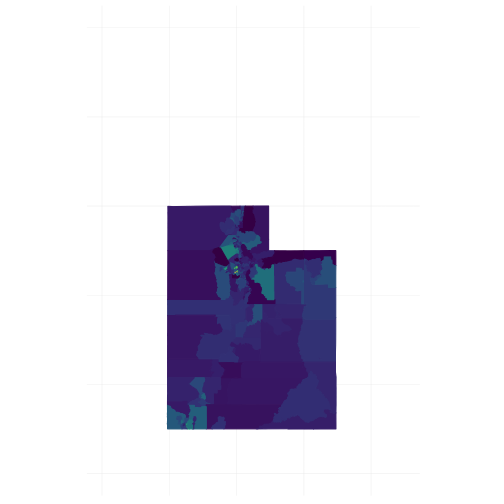
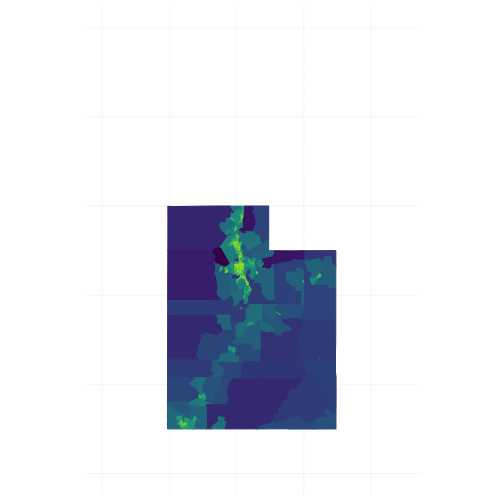
Forgot to keep Google fonts

Changed region(s): [[0.3274, 0.3869, 0.6845, 0.8631]]

diff --git a/R/make_hex.md b/R/make_hex.md
@@ -1,70 +1,64 @@
----
-title: "Make a hex sticker for the SLC RUG!"
-output: github_document
----
-
-
+Make a hex sticker for the SLC RUG\!
+================
 
 ## Get some population data for Utah
 
-
-```r
+``` r
 library(tidyverse)
 library(tidycensus)
-
+library(sf)
 
 options(tigris_use_cache = TRUE)
 
-utah <- get_acs(state = "UT", 
-                geography = "tract", 
-                variables = "B01003_001",  
-                geometry = TRUE)
+utah_raw <- get_acs(state = "UT", 
+                    geography = "tract", 
+                    variables = "B01003_001",  
+                    geometry = TRUE)
 ```
 
-```
-## Getting data from the 2012-2016 5-year ACS
-```
+    ## Getting data from the 2012-2016 5-year ACS
 
-```
-## Using FIPS code '49' for state 'UT'
-```
+    ## Using FIPS code '49' for state 'UT'
 
-```r
+``` r
+area <- utah_raw %>% 
+    select(geometry) %>% 
+    st_area() %>%
+    as.numeric()
+
+utah <- bind_cols(utah_raw, data_frame(area = area))
+
 head(utah)
 ```
 
-```
-## Simple feature collection with 6 features and 5 fields
-## geometry type:  POLYGON
-## dimension:      XY
-## bbox:           xmin: -114.0505 ymin: 38.14742 xmax: -111.9994 ymax: 42.00122
-## epsg (SRID):    4269
-## proj4string:    +proj=longlat +datum=NAD83 +no_defs
-##         GEOID                                      NAME   variable
-## 1 49001100100    Census Tract 1001, Beaver County, Utah B01003_001
-## 2 49001100200    Census Tract 1002, Beaver County, Utah B01003_001
-## 3 49003960100 Census Tract 9601, Box Elder County, Utah B01003_001
-## 4 49003960200 Census Tract 9602, Box Elder County, Utah B01003_001
-## 5 49003960300 Census Tract 9603, Box Elder County, Utah B01003_001
-## 6 49003960400 Census Tract 9604, Box Elder County, Utah B01003_001
-##   estimate moe                       geometry
-## 1     3517 200 POLYGON ((-112.7899 38.3158...
-## 2     2920 200 POLYGON ((-114.0505 38.4999...
-## 3     2879 267 POLYGON ((-114.0426 41.2109...
-## 4     7167 383 POLYGON ((-112.1949 41.7257...
-## 5     8905 438 POLYGON ((-112.2323 41.7223...
-## 6     4628 253 POLYGON ((-112.4894 41.6044...
-```
+    ## Simple feature collection with 6 features and 6 fields
+    ## geometry type:  POLYGON
+    ## dimension:      XY
+    ## bbox:           xmin: -114.0505 ymin: 38.14742 xmax: -111.9994 ymax: 42.00122
+    ## epsg (SRID):    4269
+    ## proj4string:    +proj=longlat +datum=NAD83 +no_defs
+    ##         GEOID                                      NAME   variable
+    ## 1 49001100100    Census Tract 1001, Beaver County, Utah B01003_001
+    ## 2 49001100200    Census Tract 1002, Beaver County, Utah B01003_001
+    ## 3 49003960100 Census Tract 9601, Box Elder County, Utah B01003_001
+    ## 4 49003960200 Census Tract 9602, Box Elder County, Utah B01003_001
+    ## 5 49003960300 Census Tract 9603, Box Elder County, Utah B01003_001
+    ## 6 49003960400 Census Tract 9604, Box Elder County, Utah B01003_001
+    ##   estimate moe                       geometry        area
+    ## 1     3517 200 POLYGON ((-112.7899 38.3158...  1354789013
+    ## 2     2920 200 POLYGON ((-114.0505 38.4999...  5341852992
+    ## 3     2879 267 POLYGON ((-114.0426 41.2109... 15814285565
+    ## 4     7167 383 POLYGON ((-112.1949 41.7257...   260192460
+    ## 5     8905 438 POLYGON ((-112.2323 41.7223...    35855445
+    ## 6     4628 253 POLYGON ((-112.4894 41.6044...   759753941
 
-
-
-
-```r
+``` r
 library(viridis)
 library(hexSticker)
 
 ut <- utah %>%
-    ggplot(aes(fill = estimate, color = estimate)) + 
+    ggplot(aes(fill = log2((estimate + 25) / area), 
+               color = log2((estimate + 25) / area))) + 
     geom_sf() + 
     coord_sf(xlim = c(-107, -116),
              ylim = c(36, 46)) + 
@@ -81,7 +75,9 @@ ut
 
 ![plot of chunk unnamed-chunk-1](figure/unnamed-chunk-1-1.png)
 
-```r
+``` r
+sysfonts::font_add_google("Abril Fatface", "abril")
+
 sticker(ut,
         package = "slc rug", 
         p_size = 10,
@@ -94,8 +90,6 @@ sticker(ut,
         s_x = 1, s_y = 1, 
         s_width = 1.6, s_height = 1.6,
         url = "slc-rug.github.io",
-        u_color	= "#453781FF",
+        u_color = "#453781FF",
         filename="slcrug_hex.png")
 ```
-
-
